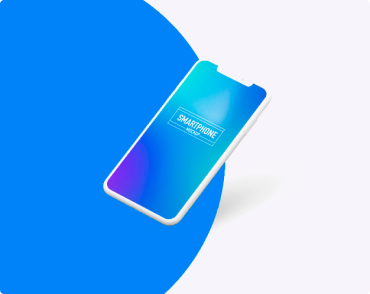
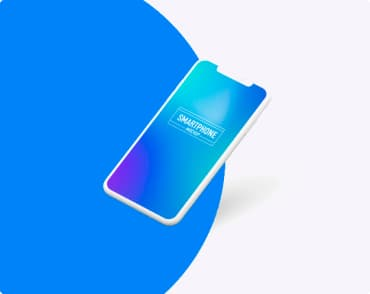
оптимизировані изображения
произвел оптимизацию

diff --git a/index.html b/index.html
@@ -121,7 +121,7 @@
           <ul>
             <li class="block-doing-txt">
               <div class="position-block-doing">
-                <img class="img-box" src="./images/doing/a.jpg"" alt="фотография с ноутбуком" />
+                <img class="img-box" src="./images/portfolio/i-min.jpg"" alt="фотография с ноутбуком" />
                 <h3 class="doing-txt">
                   Десктопные приложения
                 </h3>
@@ -137,7 +137,7 @@
             </li>
             <li class="block-doing-txt">
               <div class="position-block-doing">
-                <img  class="img-box" src="./images/doing/c.jpg" alt="фотография с гравической программой" />
+                <img  class="img-box" src="./images/portfolio/f-min.jpg" alt="фотография с гравической программой" />
                 <h3 class="doing-txt">
                   Дизайнерские решения
                 </h3>
